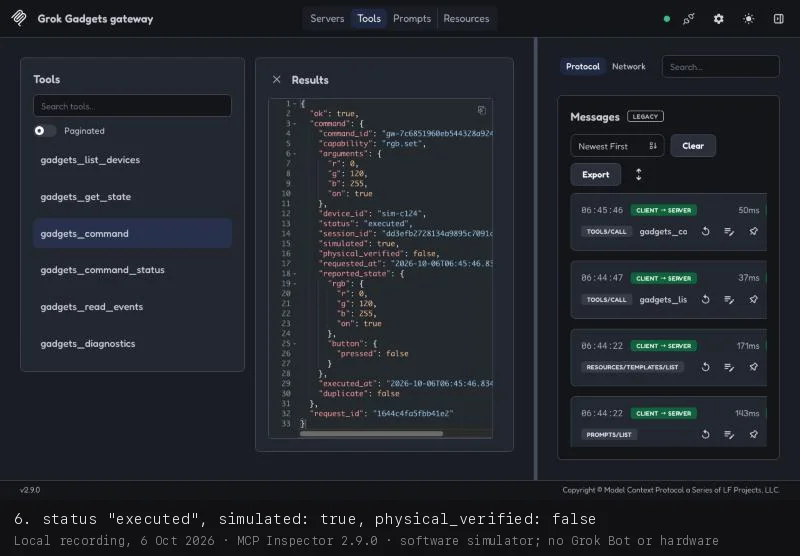
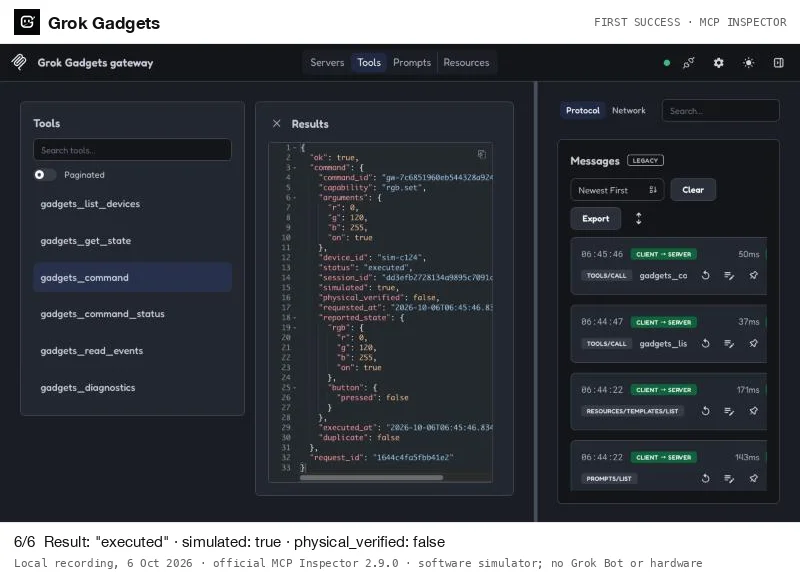
feat(HUB-PROOF-001): frame the recording with Grok Gadgets branding
Add a Grok Gadgets title bar with the project icon and crop the
Inspector's own footer. The caption still names MCP Inspector.

Refs #62

diff --git a/website/build.py b/website/build.py
@@ -263,7 +263,7 @@ proof_section = (
     "MCP Inspector, the official model-free MCP developer tool. CI runs this path every night.</p>"
     '<picture><source srcset="media/gateway-inspector-first-success-still.webp" '
     'media="(prefers-reduced-motion: reduce)">'
-    '<img src="media/gateway-inspector-first-success.webp" width="800" height="556" loading="lazy" '
+    '<img src="media/gateway-inspector-first-success.webp" width="800" height="580" loading="lazy" '
     'alt="MCP Inspector connects to the local gateway, lists six tools, finds the simulated light '
     'sim-c124 and sets it blue. The reply says executed, simulated true, physical_verified false."></picture>'
     '<p class="quiet-note">Recorded locally on 6 October 2026 with MCP Inspector 2.9.0. '
